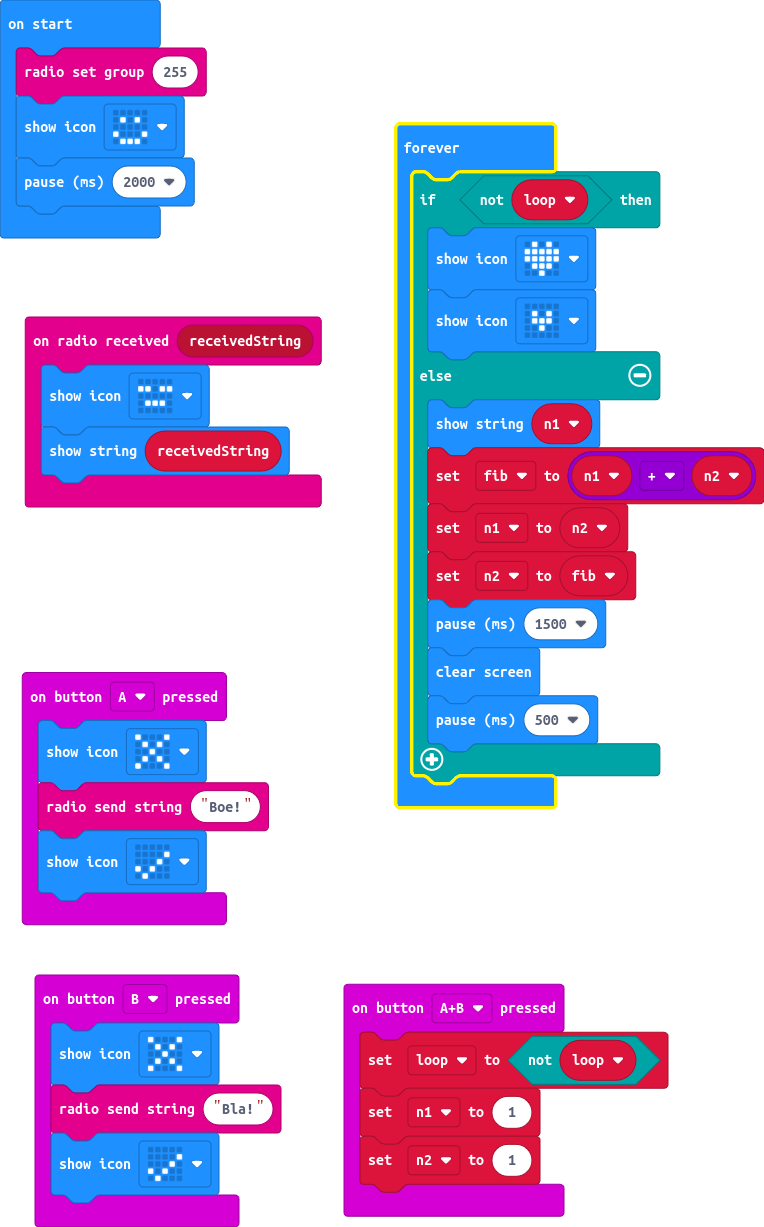
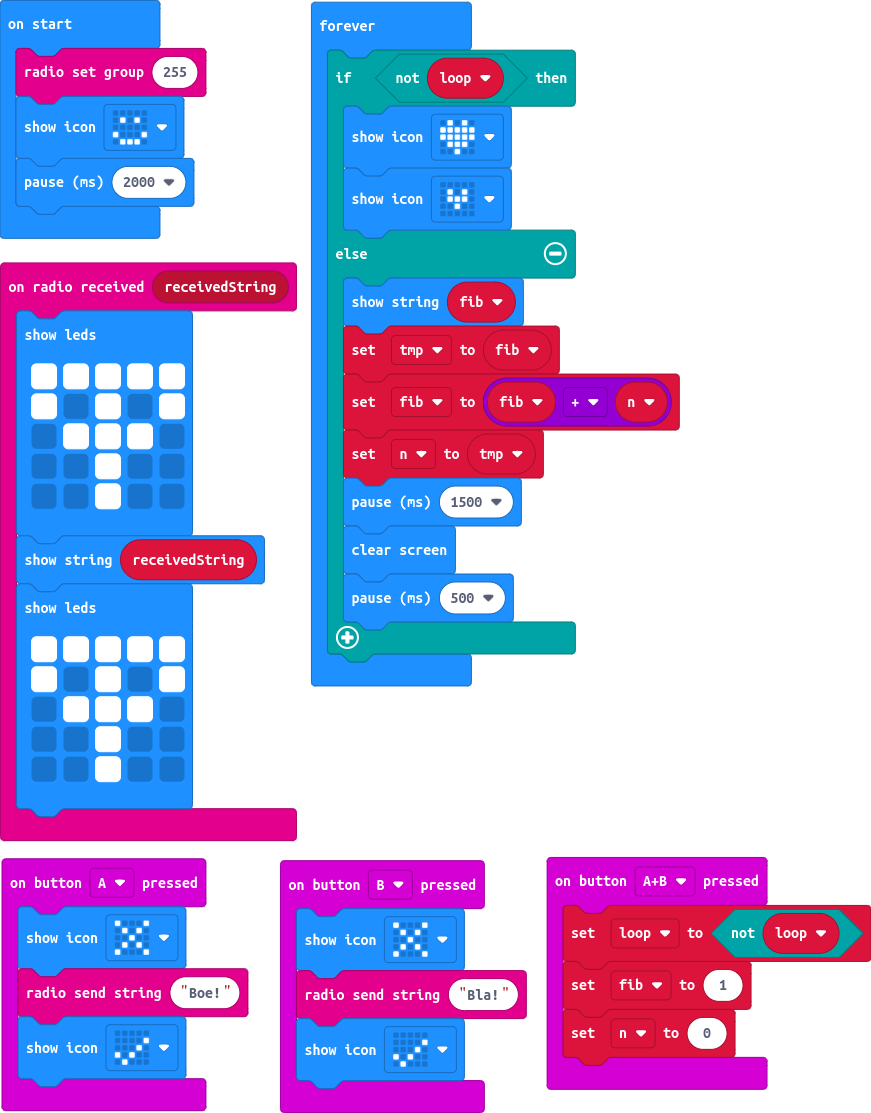
Update main.blocks, main.ts

diff --git a/main.ts b/main.ts
@@ -5,21 +5,34 @@ input.onButtonPressed(Button.A, function () {
 })
 input.onButtonPressed(Button.AB, function () {
     loop = !(loop)
-    n1 = 1
-    n2 = 1
+    fib = 1
+    n = 0
 })
 radio.onReceivedString(function (receivedString) {
-    basic.showIcon(IconNames.Asleep)
+    basic.showLeds(`
+        # # # # #
+        # . # . #
+        . # # # .
+        . . # . .
+        . . # . .
+        `)
     basic.showString(receivedString)
+    basic.showLeds(`
+        # # # # #
+        # . # . #
+        . # # # .
+        . . # . .
+        . . # . .
+        `)
 })
 input.onButtonPressed(Button.B, function () {
     basic.showIcon(IconNames.No)
     radio.sendString("Bla!")
     basic.showIcon(IconNames.Yes)
 })
+let tmp = 0
+let n = 0
 let fib = 0
-let n2 = 0
-let n1 = 0
 let loop = false
 radio.setGroup(255)
 basic.showIcon(IconNames.Happy)
@@ -29,10 +42,10 @@ basic.forever(function () {
         basic.showIcon(IconNames.Heart)
         basic.showIcon(IconNames.SmallHeart)
     } else {
-        basic.showString("" + (n1))
-        fib = n1 + n2
-        n1 = n2
-        n2 = fib
+        basic.showString("" + (fib))
+        tmp = fib
+        fib = fib + n
+        n = tmp
         basic.pause(1500)
         basic.clearScreen()
         basic.pause(500)
